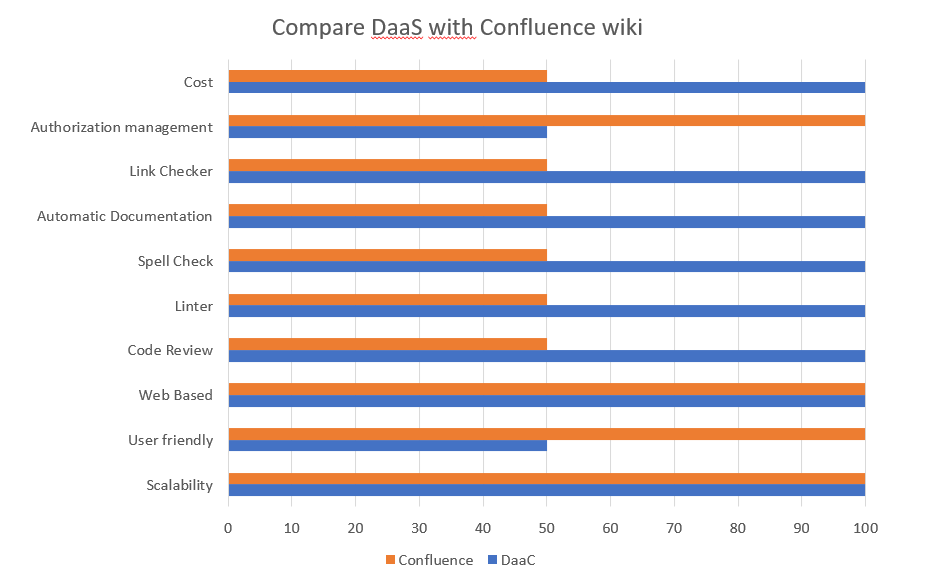
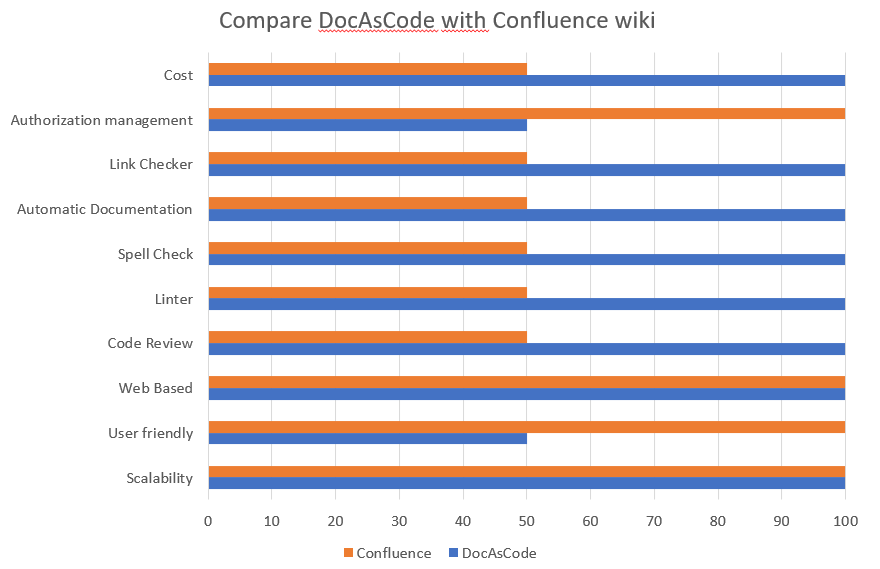
update docascode compare picture

diff --git a/slides/README.md b/slides/README.md
@@ -452,7 +452,7 @@ We have been using GitHub template to ease the creation of Documentation As Code
 
 ---
 
-# Daas VS Confluence
+# DocAsCode VS Confluence
 
 ![h:450](https://github.com/documentation-as-code/ci-cd-for-documentation-fr/raw/master/slides/compare_daas_confluence.png)
 
